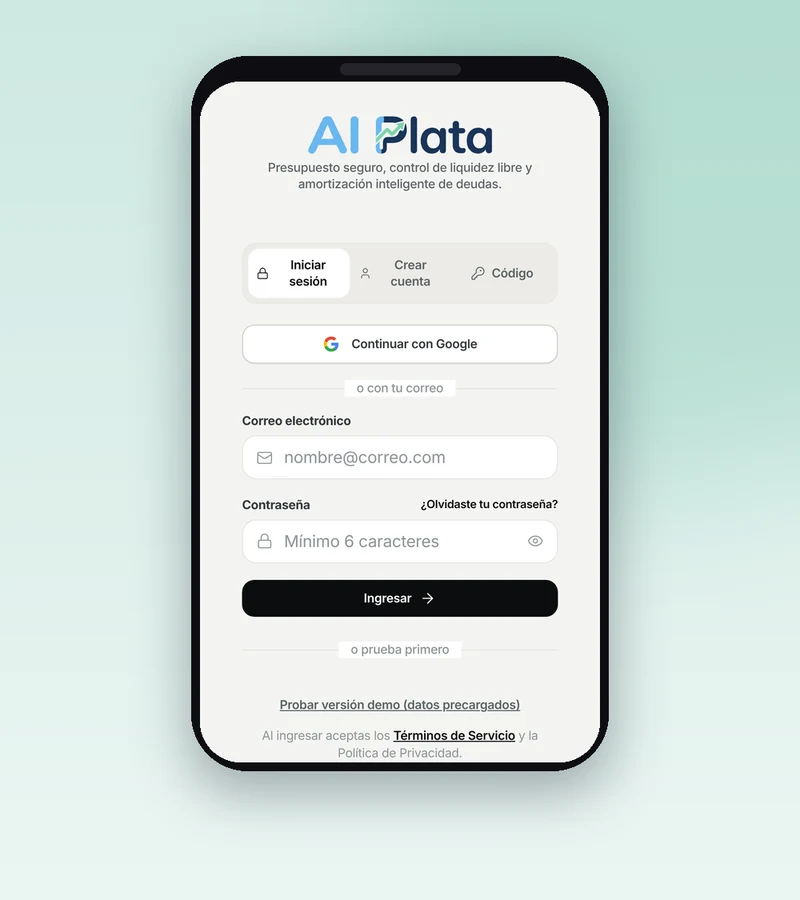
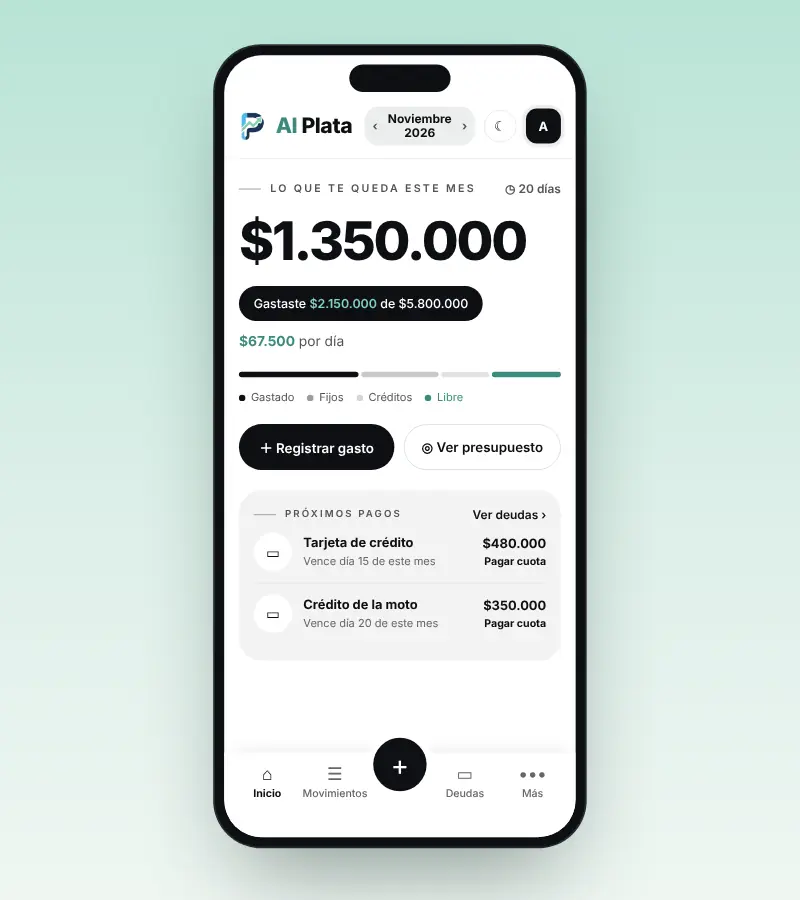
AI Plata: vista de computador y celular con datos de ejemplo
Claude-Session: https://claude.ai/code/session_01WGQKhqgwMA1tsKysMzo23F

Changed region(s): [[0.2188, 0.0311, 0.875, 1.0]]

diff --git a/index.html b/index.html
@@ -391,7 +391,7 @@ footer .wrap{display:flex;justify-content:space-between;align-items:center;gap:1
             <ul class="chips"><li>Gastos y deudas</li><li>Bancos de Colombia</li><li>Asistente con IA</li><li>Celular y web</li></ul>
             <span class="visit"><span><svg viewBox="0 0 16 16" fill="none" stroke="currentColor" stroke-width="2" stroke-linecap="round" stroke-linejoin="round"><path d="M4.5 11.5l7-7M6 4.5h5.5V10"/></svg></span>Abrir AI Plata</span>
           </div>
-          <div class="media"><div class="stage"><picture><source media="(max-width:760px)" srcset="img/p-aiplata-m.webp" width="800" height="900"><img src="img/p-aiplata.webp" alt="Vista de AI Plata en computador y celular: pantalla de inicio de sesión" width="1280" height="800" loading="lazy" decoding="async"></picture></div></div>
+          <div class="media"><div class="stage"><picture><source media="(max-width:760px)" srcset="img/p-aiplata-m.webp?v=2" width="800" height="900"><img src="img/p-aiplata.webp?v=2" alt="Vista de AI Plata en computador y celular: pantalla de inicio de sesión" width="1280" height="800" loading="lazy" decoding="async"></picture></div></div>
         </a>
         <a class="show rv" href="https://e-nova.com.co" target="_blank" rel="noopener" style="--hue:#0a5cd5">
           <div class="copy">
